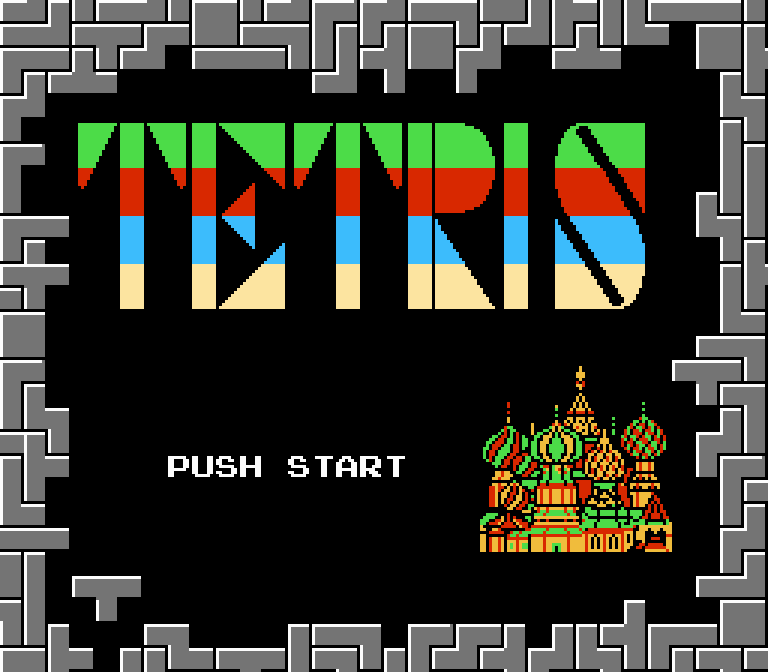
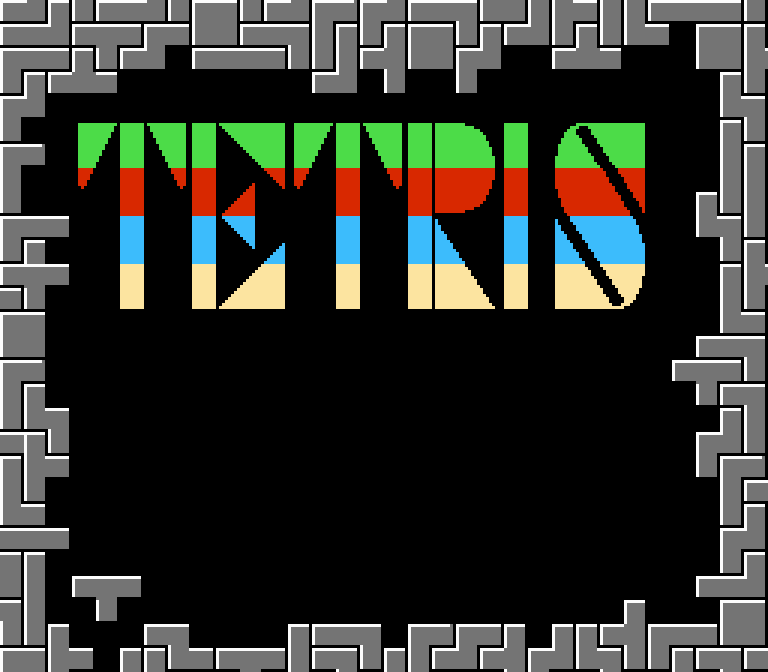
update styling

Changed region(s): [[0.625, 0.5312, 0.875, 0.8438], [0.375, 0.6562, 0.5312, 0.7188], [0.2188, 0.6562, 0.3438, 0.7188]]

diff --git a/js/game.js b/js/game.js
@@ -16,6 +16,16 @@ class Game {
         this.audioTetris = new Audio('assets/tetris.mp3');
         this.audioMusic = new Audio('assets/music.mp3');
         this.audioGameover = new Audio('assets/gameover.mp3');
+        // this.audioMove.volume = 0.2;
+        // this.audioRotate.volume = 0.2;
+        // this.audioLock.volume = 0.2;
+        // this.audioClear.volume = 0.2;
+        // this.audioLevelup.volume = 0.2;
+        // this.audioStart.volume = 0.2;
+        // this.audioEnding.volume = 0.2;
+        // this.audioTetris.volume = 0.2;
+        // this.audioMusic.volume = 0.2;
+        // this.audioGameover.volume = 0.2;
     }
     start() {
         this.board = new Board(col, row);
@@ -27,6 +37,7 @@ class Game {
         game.audioMusic.loop = true;
         this.run = setInterval(this.drop, this.speed);
         document.querySelector('.overlay').className = 'overlay';
+        document.querySelector('.start-info').style.visibility = 'hidden';
     }
     drop() {
         if (!game.board.currentTetromino.drop()) {

diff --git a/styles/style.css b/styles/style.css
@@ -1,7 +1,7 @@
 @import url('https://fonts.googleapis.com/css2?family=Press+Start+2P&display=swap');
 
 body {
-    background-color: black;
+    background-color: darkslategray;
     font-family: 'Press Start 2P', cursive;
     font-size: 24px;
     color: white;
@@ -11,18 +11,22 @@ body {
     position: fixed;
     top: 50%;
     left: 50%;
-    margin-top: -384px;
-    margin-left: -336px;
+    margin-top: -434px;
+    margin-left: -560px;
+    padding: 50px;
+    width: 768px;
+    height: 672px;
+    background-color: black;
 }
 
 img {
-    width: 1050px;
+    width: 1350px;
     z-index: 2;
     position: fixed;
     top: 50%;
     left: 50%;
     margin-top: -490px;
-    margin-left: -476px;
+    margin-left: -675px;
 }
 
 .start-screen {
@@ -33,6 +37,16 @@ img {
     margin: 0;
     position: absolute;
     z-index: 1;
+}
+
+.start-info {
+    width: 450px;
+    padding: 0;
+    margin: 0;
+    position: absolute;
+    z-index: 2;
+    top: 360px;
+    left: 169px;
 }
 
 .game-over-screen {

diff --git a/index.html b/index.html
@@ -14,6 +14,15 @@
                 <div class="end-score"></div>
             </div>
             <div class="screen">
+                <div class="start-info">
+                    CONTROLS<br>
+                    START &nbsp;&nbsp;&nbsp;&nbsp;&lt;ENTER&gt;<br>
+                    LEFT &nbsp;&nbsp;&nbsp;&nbsp;&nbsp;&lt;LEFT&gt;<br>
+                    RIGHT &nbsp;&nbsp;&nbsp;&nbsp;&lt;RIGHT&gt;<br>
+                    DOWN &nbsp;&nbsp;&nbsp;&nbsp;&nbsp;&lt;DOWN&gt;<br>
+                    ROTATE &nbsp;&nbsp;&nbsp;&lt;UP&gt;<br>
+                    START/STOP <br>MUSIC &nbsp;&nbsp;&nbsp;&nbsp;&lt;SPACE&gt;
+                </div>
                 <div class="board">
                     <div class="row y0">
                         <div class="col x0"></div>

diff --git a/js/main.js b/js/main.js
@@ -28,5 +28,9 @@ function controls(event) {
         case 38:
             game.board.currentTetromino.rotate();
             break;
+        case 32:
+            if (game.audioMusic.paused) game.audioMusic.play();
+            else game.audioMusic.pause()
+            break;
     }
 }
